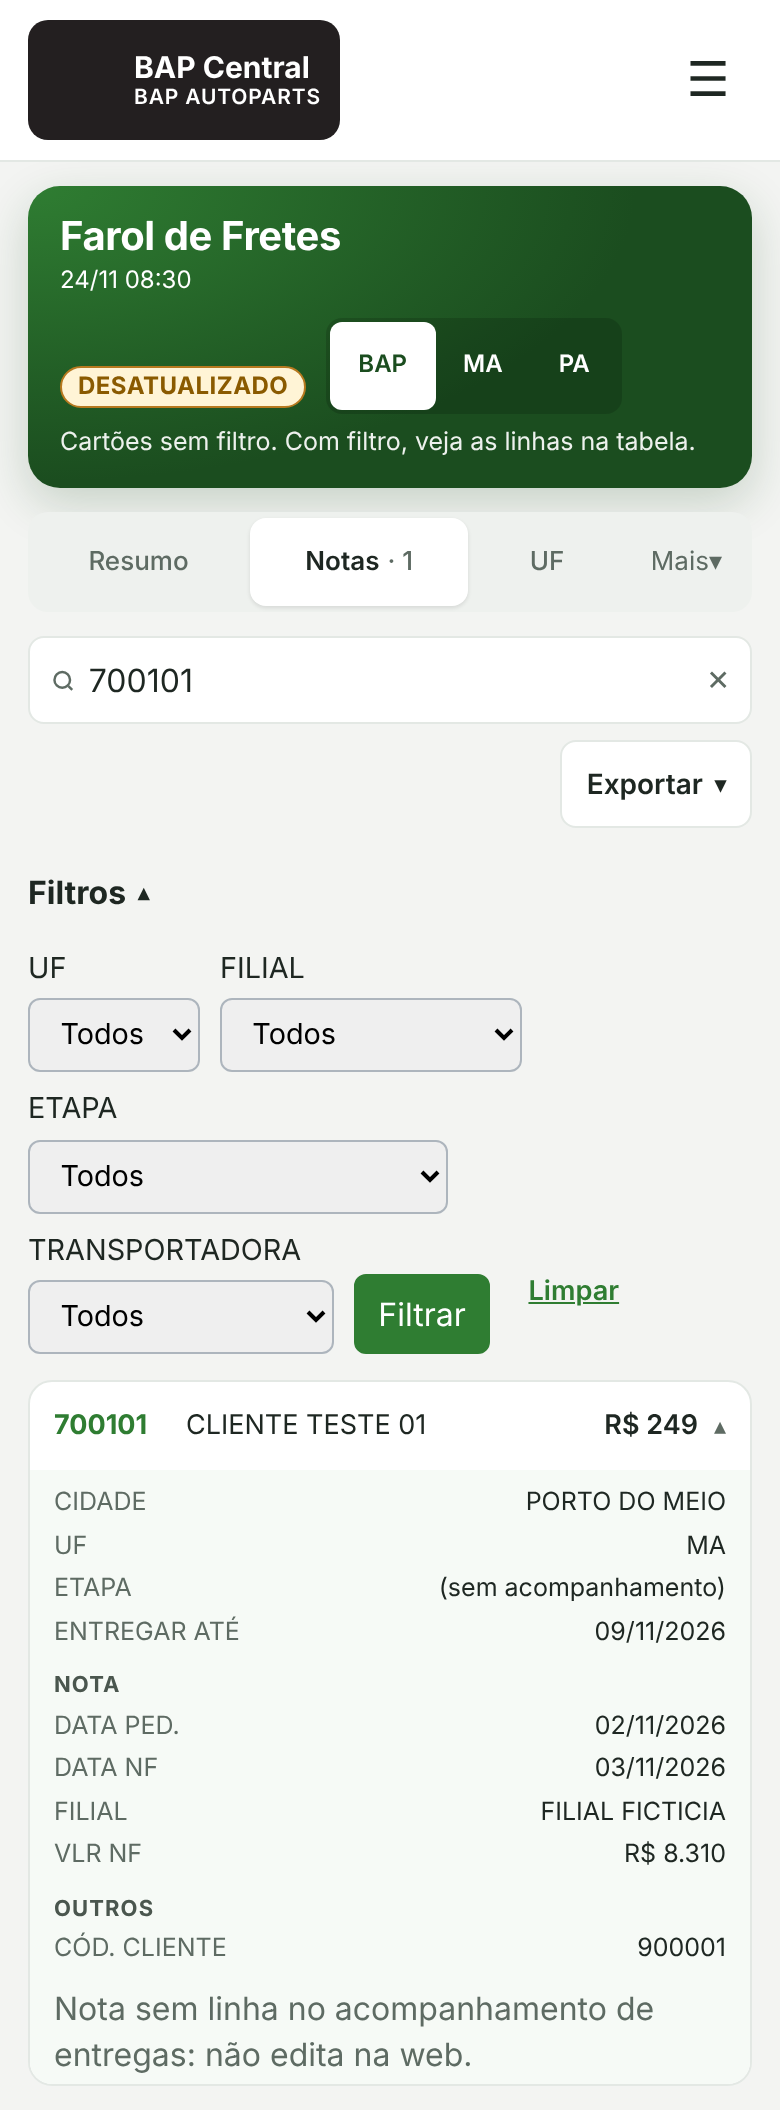
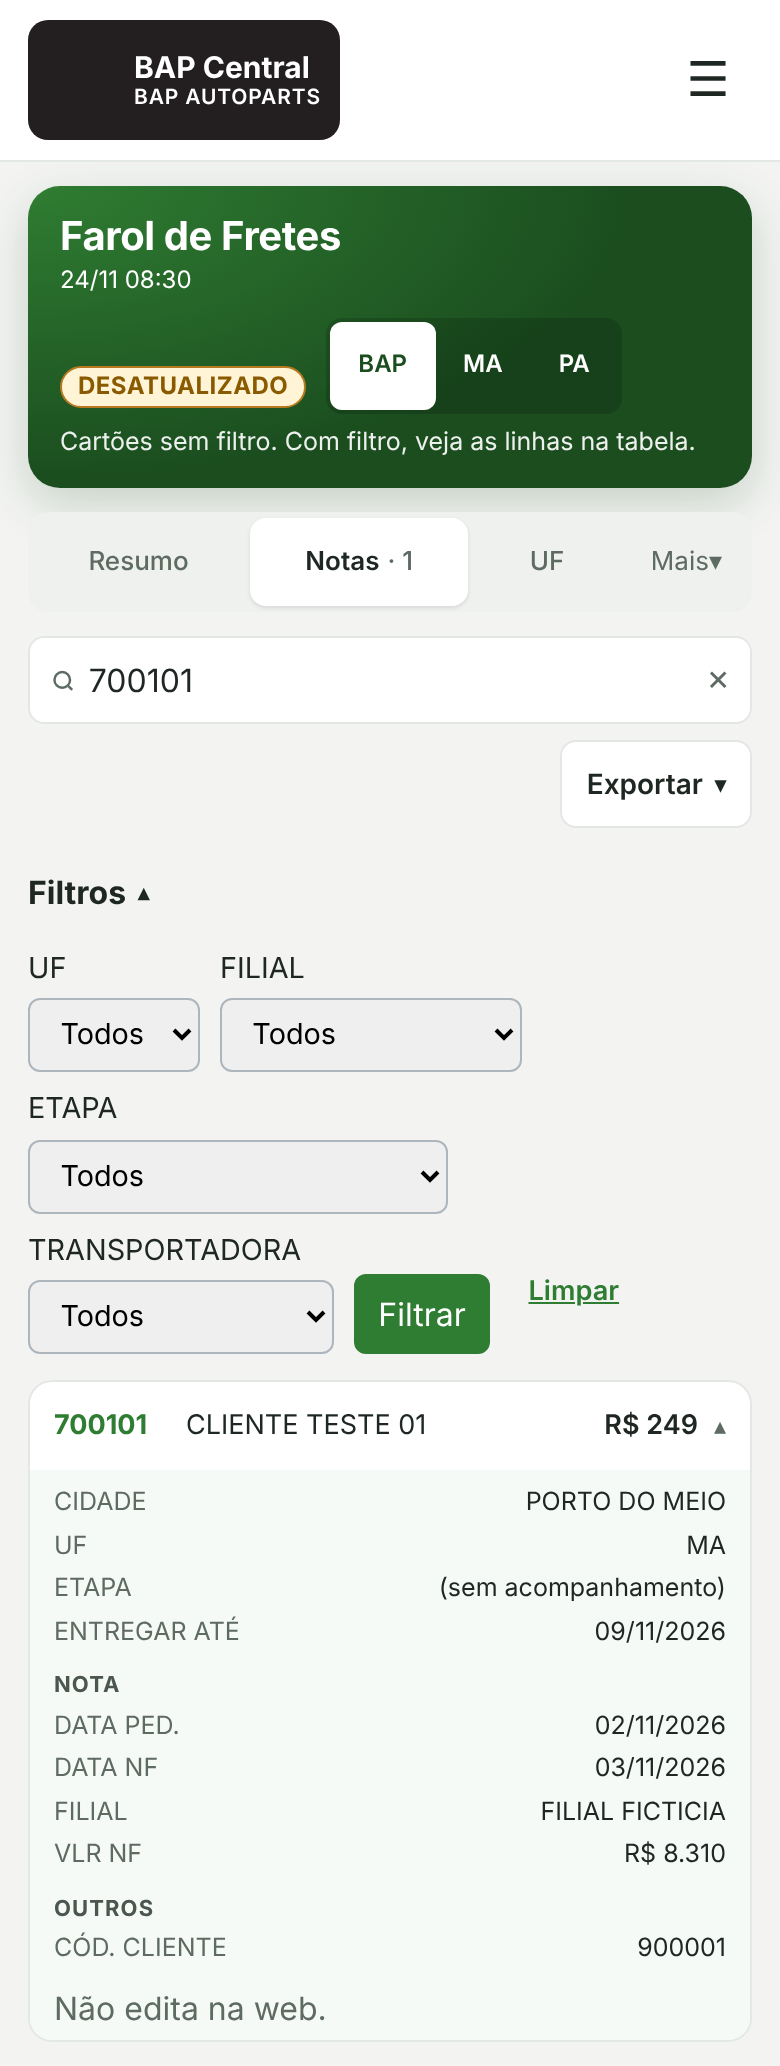
T-0037: redundâncias RD-f, RD-g e RD-h (corretor-redundancias)
Agente: modulo-web
Claude-Session: https://claude.ai/code/session_01QvB2STi3xq4ykrr1HFRGBM

diff --git a/web/app/templates/_grade.html b/web/app/templates/_grade.html
@@ -2,7 +2,7 @@
 {% macro celula(v) %}{% if v.b %}<span class="atend"><span class="atend-trilho"><i style="width:{{ v.b.w }}%;background:{{ v.b.f }}"></i></span><b>{{ v.t }}</b></span>{% elif v.f %}<span class="selo" style="background:{{ v.f }};color:{{ v.c }}">{{ v.t }}</span>{% else %}{{ v.t }}{% endif %}{% endmacro %}
 {# T-0021: botão de editar (admin) e marca "Aguardando o PC" / "O PC recusou" numa coluna à esquerda #}
 {# T-0037: `longo` (celular, sem hover) escreve a mensagem da linha sem chave em vez do "—" com dica #}
-{% macro edcel(e, longo=false) %}{% if e.url %}<a class="bt-ed" href="{{ e.url }}">Editar</a>{% elif e.sem_chave %}{% set msg = e.msg_sem_chave or 'Nota concluída (anterior ao controle de 01/10/2026).' %}{% if longo %}<span class="ed-nao">{{ msg }}</span>{% else %}<span class="ed-nao" title="{{ msg }}">—</span>{% endif %}{% endif %}{% if e.marca == 'pendente' %}<span class="ed-marca ed-pend" title="{{ e.dica }}">Aguardando o PC</span>{% elif e.marca == 'erro' %}<span class="ed-marca ed-erro" title="{{ e.dica }}">O PC recusou</span>{% endif %}{% endmacro %}
+{% macro edcel(e, longo=false) %}{% if e.url %}<a class="bt-ed" href="{{ e.url }}">Editar</a>{% elif e.sem_chave %}{% set msg = e.msg_sem_chave %}{% if longo %}<span class="ed-nao">{{ msg }}</span>{% else %}<span class="ed-nao" title="{{ msg }}">—</span>{% endif %}{% endif %}{% if e.marca == 'pendente' %}<span class="ed-marca ed-pend" title="{{ e.dica }}">Aguardando o PC</span>{% elif e.marca == 'erro' %}<span class="ed-marca ed-erro" title="{{ e.dica }}">O PC recusou</span>{% endif %}{% endmacro %}
 {# T-0033: dl de um popup em blocos: [[título, [[nome, texto], ...]], ...] #}
 {% macro blocos(bs) %}{% for b in bs %}{% if b[0] %}<dt class="bl">{{ b[0] }}</dt><dd class="bl"></dd>{% endif %}{% for p in b[1] %}<dt>{{ p[0] }}</dt><dd>{{ p[1] }}</dd>{% endfor %}{% endfor %}{% endmacro %}
 {# as linhas do corpo da tabela (<tr>), reaproveitadas pelo "carregar mais" (/farol/<rid>/linhas) #}

diff --git a/web/tests/test_T0037_fretes.py b/web/tests/test_T0037_fretes.py
@@ -160,8 +160,3 @@ def test_RN_POS_010_aba_curta_e_dica_da_busca(admin):
     _pacote_ok(admin)
     assert 'placeholder="Buscar NF ou cliente"' in admin.get(URL).text
 
-
-def test_RN_POS_010_pacote_do_fretes_nao_traz_frete_real():
-    from fretes_fixture import pacote_fretes as pf
-    t = pf()["relatorios"]["pl_fretes"]["tabelas"][0]
-    assert "frete_real" not in [c["campo"] for c in t["edicao"]["campos"]]   # P2 A: o VLR FRETE (REAL) fica no Entregas

diff --git a/web/app/edicoes.py b/web/app/edicoes.py
@@ -52,7 +52,7 @@ MSG_AGUARDA = "Aguardando o PC"
 MSG_ERRO = "O PC recusou"
 MSG_SEM_CHAVE = "Nota concluída (anterior ao controle de 01/10/2026)."
 MSG_SEM_CHAVE_POR_LUGAR = {
-    ("pl_fretes", "Notas com frete"): "Nota sem linha no acompanhamento de entregas: não edita na web.",
+    ("pl_fretes", "Notas com frete"): "Não edita na web.",
 }
 
 
